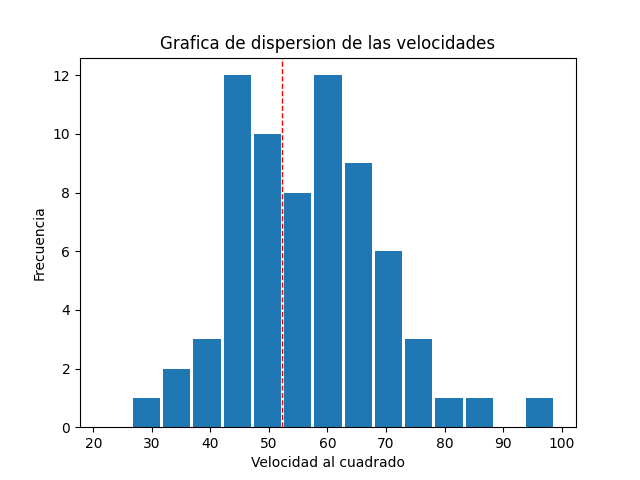
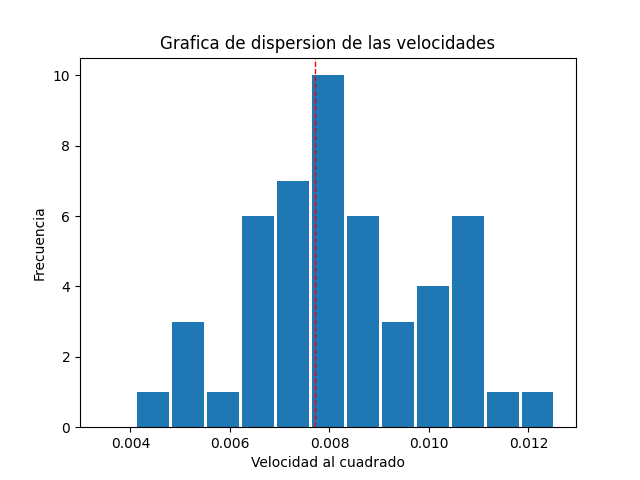
configuraciones externas

diff --git a/animacion_3d.py b/animacion_3d.py
@@ -1,22 +1,34 @@
 """Programa para simular particulas"""
 import math
 import os
+import json
 import numpy as np
 import matplotlib.pyplot as plt
 import matplotlib.animation as animation
 
 # Declaración de parámetros
-SISTEMA = 4
-TIEMPO = 10
+SISTEMA = 1
+TIEMPO = 0.7
+GUARDADO = TIEMPO
 DT = 0.01
-IMAGENES = 1
-LONGITUD = 10
-MASA = 1
-RADIO_CORTE = 7
-EPSILON = 1
-GAMA = 1
-ANIMAR = False
-RUTA_DATOS = f"Sistemas/Sistema_{SISTEMA}/Datos_{SISTEMA}.dat"
+ANIMAR = True
+
+#Lectura de la configuracion
+CARPETA = f"Sistemas/Sistema_{SISTEMA}"
+RUTA_DATOS = CARPETA + f"/Datos_{SISTEMA}.dat"
+
+def lectura(json_data, variable, valor_defecto):
+    return json_data.get(variable, valor_defecto)
+
+with open(CARPETA + F'/config_{SISTEMA}.json', 'r') as archivo:
+    data = json.load(archivo)
+
+IMAGENES = lectura(data,"IMAGENES",1)
+LONGITUD = lectura(data,"LONGITUD",10)
+MASA = lectura(data,"MASA",1)
+RADIO_CORTE = lectura(data,"RADIO_CORTE",5)
+EPSILON = lectura(data,"EPSILON",1)
+GAMA = lectura(data,"GAMA",1)
 
 # Obtención de condiciones iniciales
 datos = np.loadtxt(RUTA_DATOS)
@@ -76,7 +88,7 @@ def actualizar_posiciones(act_pos_x, act_pos_y, act_pos_z, act_vel_x, act_vel_y,
     act_pos_x = act_pos_x + act_vel_x * DT
     act_pos_y = act_pos_y + act_vel_y * DT
     act_pos_z = act_pos_z + act_vel_z * DT
-    return act_pos_x, act_pos_y, act_pos_z, distancia_media_parcial
+    return act_pos_x, act_pos_y, act_pos_z, act_vel_x, act_vel_y, act_vel_z, distancia_media_parcial
 
 if ANIMAR:
     fig = plt.figure(figsize=(6, 6))
@@ -92,14 +104,12 @@ if ANIMAR:
         """Funcion para animar"""
         distancia_media_total1 = 0
         for j in range(NPAR):
-            posicion_x[j], posicion_y[j], posicion_z[j], media_par1 = actualizar_posiciones(
+            posicion_x[j], posicion_y[j], posicion_z[j], velocidad_x[j], velocidad_y[j], velocidad_z[j], _ = actualizar_posiciones(
                 posicion_x[j], posicion_y[j], posicion_z[j],
                 velocidad_x[j], velocidad_y[j], velocidad_z[j], j)
             posicion_x[j] = posicion_x[j] % LONGITUD
             posicion_y[j] = posicion_y[j] % LONGITUD
             posicion_z[j] = posicion_z[j] % LONGITUD
-            distancia_media_total1 = distancia_media_total1 + media_par1
-        distancia_media.append(distancia_media_total1/PARES)
         grafico.set_data(posicion_x, posicion_y)
         grafico.set_3d_properties(posicion_z)
         return grafico,
@@ -109,14 +119,20 @@ if ANIMAR:
     plt.show()
 else:
     for step in range(int(TIEMPO / DT)):
-        DISTANCIA_MEDIA_TOTAL2 = 0
+        DISTANCIA_MEDIA_TOTAL = 0
+        VELOCIDAD_MEDIA = 0
         for i in range(NPAR):
-            posicion_x[i], posicion_y[i], posicion_z[i], media_par2 = actualizar_posiciones(
+            vel_cua = 0
+            posicion_x[i], posicion_y[i], posicion_z[i], velocidad_x[i], velocidad_y[i], velocidad_z[i], vel_par = actualizar_posiciones(
                 posicion_x[i], posicion_y[i], posicion_z[i],
                 velocidad_x[i], velocidad_y[i], velocidad_z[i], i)
             posicion_x[i] = posicion_x[i] % LONGITUD
             posicion_y[i] = posicion_y[i] % LONGITUD
             posicion_z[i] = posicion_z[i] % LONGITUD
-            DISTANCIA_MEDIA_TOTAL2 = DISTANCIA_MEDIA_TOTAL2 + media_par2
-        distancia_media.append(DISTANCIA_MEDIA_TOTAL2/PARES)
-    graficar(distancia_media, "Distancia media", f"Distancia_media_{SISTEMA}")
+            DISTANCIA_MEDIA_TOTAL = DISTANCIA_MEDIA_TOTAL + vel_par
+            vel_cua = velocidad_x[i]**2 + velocidad_y[i]**2 + velocidad_z[i]**2
+            VELOCIDAD_MEDIA = VELOCIDAD_MEDIA + vel_cua
+        distancia_media.append(DISTANCIA_MEDIA_TOTAL/PARES)
+        velocidad_cuadrada.append(VELOCIDAD_MEDIA/NPAR)
+    graficar(velocidad_cuadrada, "Velocidad al cuadrado", f"Velocidad_cuadrada_{SISTEMA}_{GUARDADO}")
+    graficar(distancia_media, "Distancia media", f"Distancia_media_{SISTEMA}_{GUARDADO}")

diff --git a/creador_datos.py b/creador_datos.py
@@ -1,31 +1,49 @@
 """Programa para crear los datos iniciales"""
 import math
 import os
+import json
 import random
 import matplotlib.pyplot as plt
 import numpy as np
 
-SISTEMA = 4
-NPAR = 70
-LARGO = 10
-VEL = 5
-DES_VEL = 1
+SISTEMA = 1
+NPAR = 50
+LONGITUD = 10
+VEL = 0.05
+DES_VEL = 0.01
 
+#Verifica o crea la ubicacion del sistema
 carpeta = f'Sistemas/Sistema_{SISTEMA}'
 if not os.path.exists(carpeta):
     os.makedirs(carpeta)
 
+#Limpia las imagenes del sistema anterior
+try:
+    archivos = os.listdir(carpeta)
+    for archivo in archivos:
+        if archivo.endswith(".png"):
+            ruta_completa = os.path.join(carpeta, archivo)
+            os.remove(ruta_completa)
+except Exception as e:
+        print(f"Error: {e}")
+
+#Crea la matriz de datos
+
+#Crea posiciones que no se repitan
 coordenadas_unicas = []
 while len(coordenadas_unicas) < NPAR:
-    fila = (round(random.uniform(0, LARGO), 3), round(
-        random.uniform(0, LARGO), 3), round(random.uniform(0, LARGO), 3))
+    fila = (round(random.uniform(0, LONGITUD), 6), round(
+        random.uniform(0, LONGITUD), 6), round(random.uniform(0, LONGITUD), 6))
     if fila not in coordenadas_unicas:
         coordenadas_unicas.append(fila)
-
 matriz1 = coordenadas_unicas
-parte_entera = np.round(np.random.normal(VEL, DES_VEL, size=(NPAR, 3)), 3)
+
+#Crea valores para las velocidades con distribucion gaussiana
+valores = np.round(np.random.normal(VEL, DES_VEL, size=(NPAR, 3)), 6)
 signos = np.random.choice([-1, 1], size=(NPAR, 3))
-matriz2 = parte_entera * signos
+matriz2 = valores * signos
+
+#Une ambas matrices y las ordena
 matrices_unidas = np.concatenate((matriz1, matriz2), axis=1)
 n_columnas = matrices_unidas.shape[1]
 orden_actual = np.arange(matrices_unidas.shape[0])
@@ -35,9 +53,10 @@ matriz_final = matrices_unidas[orden_actual]
 np.savetxt(carpeta + f"/Datos_{SISTEMA}.dat",
            matriz_final, fmt="%.3f", delimiter="\t")
 
+#Crea grafico para mostrar la frecuencia de las velocidades
 velocidades_cuadradas = []
 for i in range(NPAR):
-    velocidad_cuadrada = matriz_final[i, 3]**2 + matriz_final[i, 4]**2
+    velocidad_cuadrada = matriz_final[i, 3]**2 + matriz_final[i, 4]**2 + + matriz_final[i, 5]**2
     velocidades_cuadradas.append(velocidad_cuadrada)
 
 maximo = max(velocidades_cuadradas)
@@ -68,3 +87,18 @@ plt.axvline(x=media, color='red', linestyle='--', linewidth=1)
 ruta_imagen = os.path.join(carpeta, f"Dispersion_vel_ini_{SISTEMA}.png")
 plt.savefig(ruta_imagen)
 plt.show()
+
+#Guarda las configuraciones para su ejecucion
+configuracion = {
+    "NUM_PAR": NPAR,
+    "LONGITUD": LONGITUD,
+    "MEDIA": round(media,6),
+    "DESVIACION": DES_VEL,
+    "IMAGENES": 1,
+    "MASA": 1,
+    "RADIO_CORTE": round(2*LONGITUD/3,6),
+    "EPSILON": 1,
+    "GAMA": 1,
+}
+with open(carpeta+f'/config_{SISTEMA}.json', 'w') as file:
+    json.dump(configuracion, file, indent=4)

diff --git a/animacion_2d_xy.py b/animacion_2d_xy.py
@@ -1,22 +1,34 @@
 """Programa para simular particulas en dos dimensiones, en sus ejes x y"""
 import math
 import os
+import json
 import numpy as np
 import matplotlib.animation as animation
 import matplotlib.pyplot as plt
 
-# Declaración de parámetros
-SISTEMA = 3
-TIEMPO = 10
-DT = 0.01
-IMAGENES = 1
-LONGITUD = 10
-MASA = 1
-RADIO_CORTE = 7
-EPSILON = 1
-GAMA = 1
+#Declaración de parámetros
+SISTEMA = 1
+TIEMPO = 0.7
+GUARDADO = TIEMPO
+DT = 0.001
 ANIMAR = False
-RUTA_DATOS = f"Sistemas/Sistema_{SISTEMA}/Datos_{SISTEMA}.dat"
+
+#Lectura de la configuracion
+CARPETA = f"Sistemas/Sistema_{SISTEMA}"
+RUTA_DATOS = CARPETA + f"/Datos_{SISTEMA}.dat"
+
+def lectura(json_data, variable, valor_defecto):
+    return json_data.get(variable, valor_defecto)
+
+with open(CARPETA + F'/config_{SISTEMA}.json', 'r') as archivo:
+    data = json.load(archivo)
+
+IMAGENES = lectura(data,"IMAGENES",1)
+LONGITUD = lectura(data,"LONGITUD",10)
+MASA = lectura(data,"MASA",1)
+RADIO_CORTE = lectura(data,"RADIO_CORTE",5)
+EPSILON = lectura(data,"EPSILON",1)
+GAMA = lectura(data,"GAMA",1)
 
 # Obtención de condiciones iniciales
 datos = np.loadtxt(RUTA_DATOS)
@@ -110,14 +122,20 @@ if ANIMAR:
     plt.show()
 else:
     for step in range(int(TIEMPO / DT)):
-        DISTANCIA_MEDIA_TOTAL2 = 0
+        DISTANCIA_MEDIA_TOTAL = 0
+        VELOCIDAD_MEDIA = 0
         for i in range(NPAR):
-            posicion_x[i], posicion_y[i], posicion_z[i], media_par2 = actualizar_posiciones(
+            vel_cua = 0
+            posicion_x[i], posicion_y[i], posicion_z[i], velocidad_x[i], velocidad_y[i], velocidad_z[i], vel_par = actualizar_posiciones(
                 posicion_x[i], posicion_y[i], posicion_z[i],
                 velocidad_x[i], velocidad_y[i], velocidad_z[i], i)
             posicion_x[i] = posicion_x[i] % LONGITUD
             posicion_y[i] = posicion_y[i] % LONGITUD
             posicion_z[i] = posicion_z[i] % LONGITUD
-            DISTANCIA_MEDIA_TOTAL2 = DISTANCIA_MEDIA_TOTAL2 + media_par2
-        distancia_media.append(DISTANCIA_MEDIA_TOTAL2/PARES)
-    graficar(distancia_media, "Distancia media", f"Distancia_media_{SISTEMA}")
+            DISTANCIA_MEDIA_TOTAL = DISTANCIA_MEDIA_TOTAL + vel_par
+            vel_cua = velocidad_x[i]**2 + velocidad_y[i]**2 + velocidad_z[i]**2
+            VELOCIDAD_MEDIA = VELOCIDAD_MEDIA + vel_cua
+        distancia_media.append(DISTANCIA_MEDIA_TOTAL/PARES)
+        velocidad_cuadrada.append(VELOCIDAD_MEDIA/NPAR)
+    graficar(velocidad_cuadrada, "Velocidad al cuadrado", f"Velocidad_cuadrada_{SISTEMA}_{GUARDADO}")
+    graficar(distancia_media, "Distancia media", f"Distancia_media_{SISTEMA}_{GUARDADO}")
